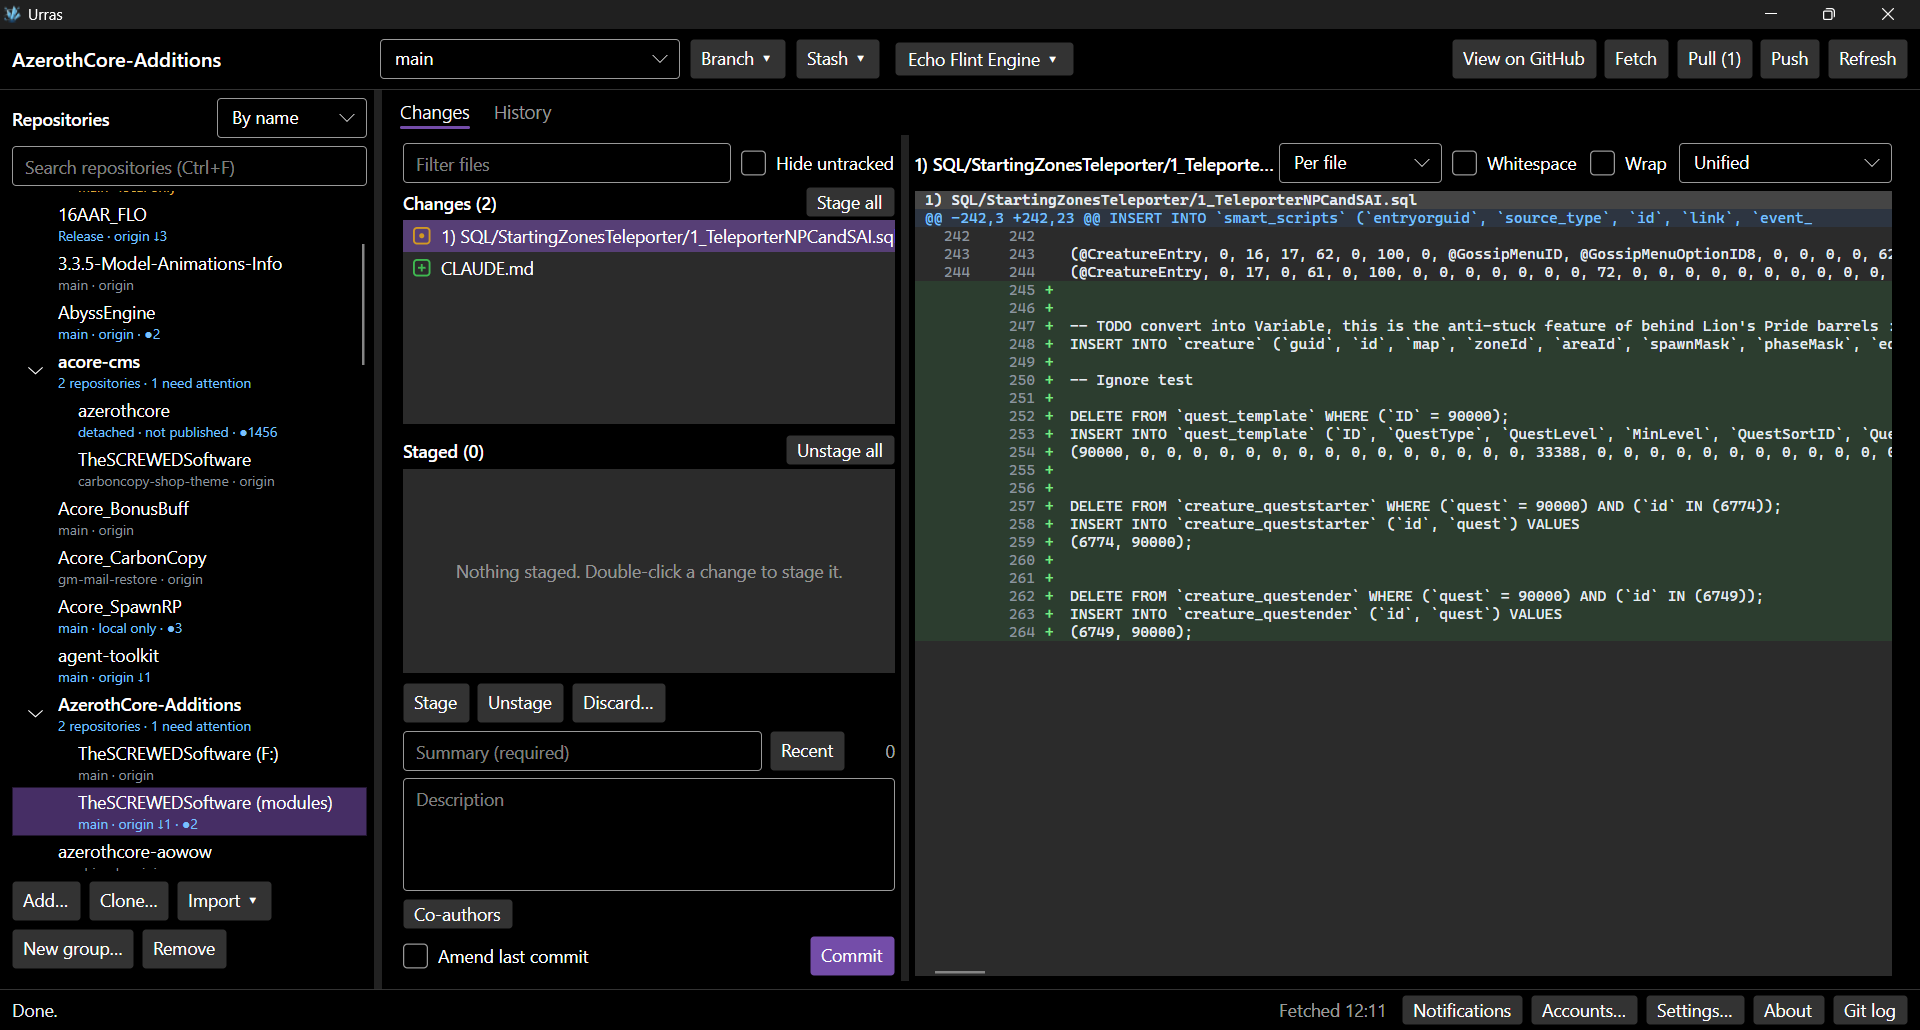
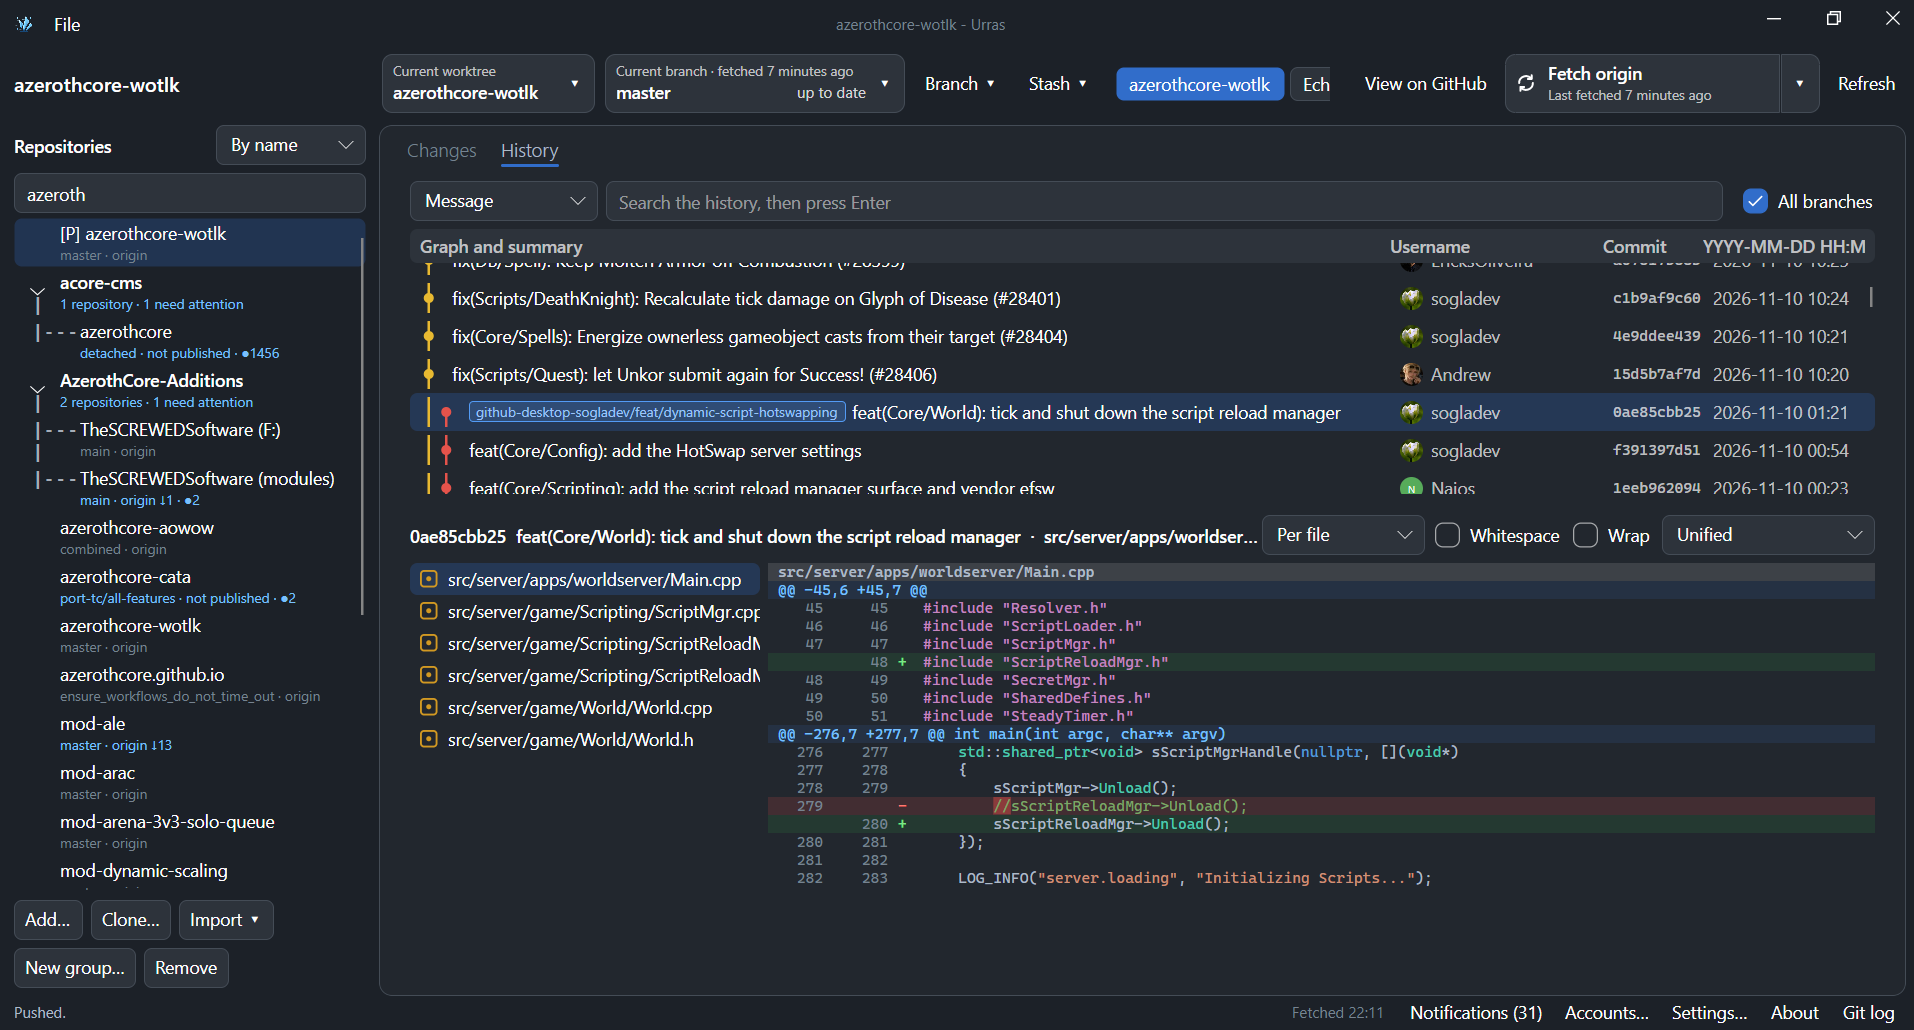
docs(Docs): Update screenshots for the new look
The main window, the Appearance page with the ready-made themes and the
Import menu show the current Urras.

diff --git a/README.md b/README.md
@@ -7,7 +7,7 @@ you already have installed.
 
 **Status:** early development. First version with the basic Git workflow.
 
-![Urras: the repository list grouped by name with search, the changes and a diff](docs/screenshots/main-window.png)
+![Urras: grouped repositories with search, the history graph and a diff](docs/screenshots/main-window.png)
 
 ## Features
 
@@ -112,7 +112,7 @@ date of each change
   <tr>
     <td>
       <img src="docs/screenshots/import-menu.png" alt="Screenshot: import menu"><br>
-      Import: everything in a folder, GitHub Desktop's list, or clones from your accounts
+      Import: everything in a folder, GitHub Desktop's list and fork choices, or clones from your accounts
     </td>
     <td>
       <img src="docs/screenshots/import-dialog.png" alt="Screenshot: import dialog"><br>
@@ -132,7 +132,7 @@ date of each change
   <tr>
     <td>
       <img src="docs/screenshots/options-appearance.png" alt="Screenshot: options appearance"><br>
-      Options: theme, date and time formats, tab size and scroll bars
+      Options: ready-made themes (GitHub, GitLab, SourceGit, Fork) with their colours, and your own
     </td>
     <td>
       <img src="docs/screenshots/options-prompts.png" alt="Screenshot: options prompts"><br>
